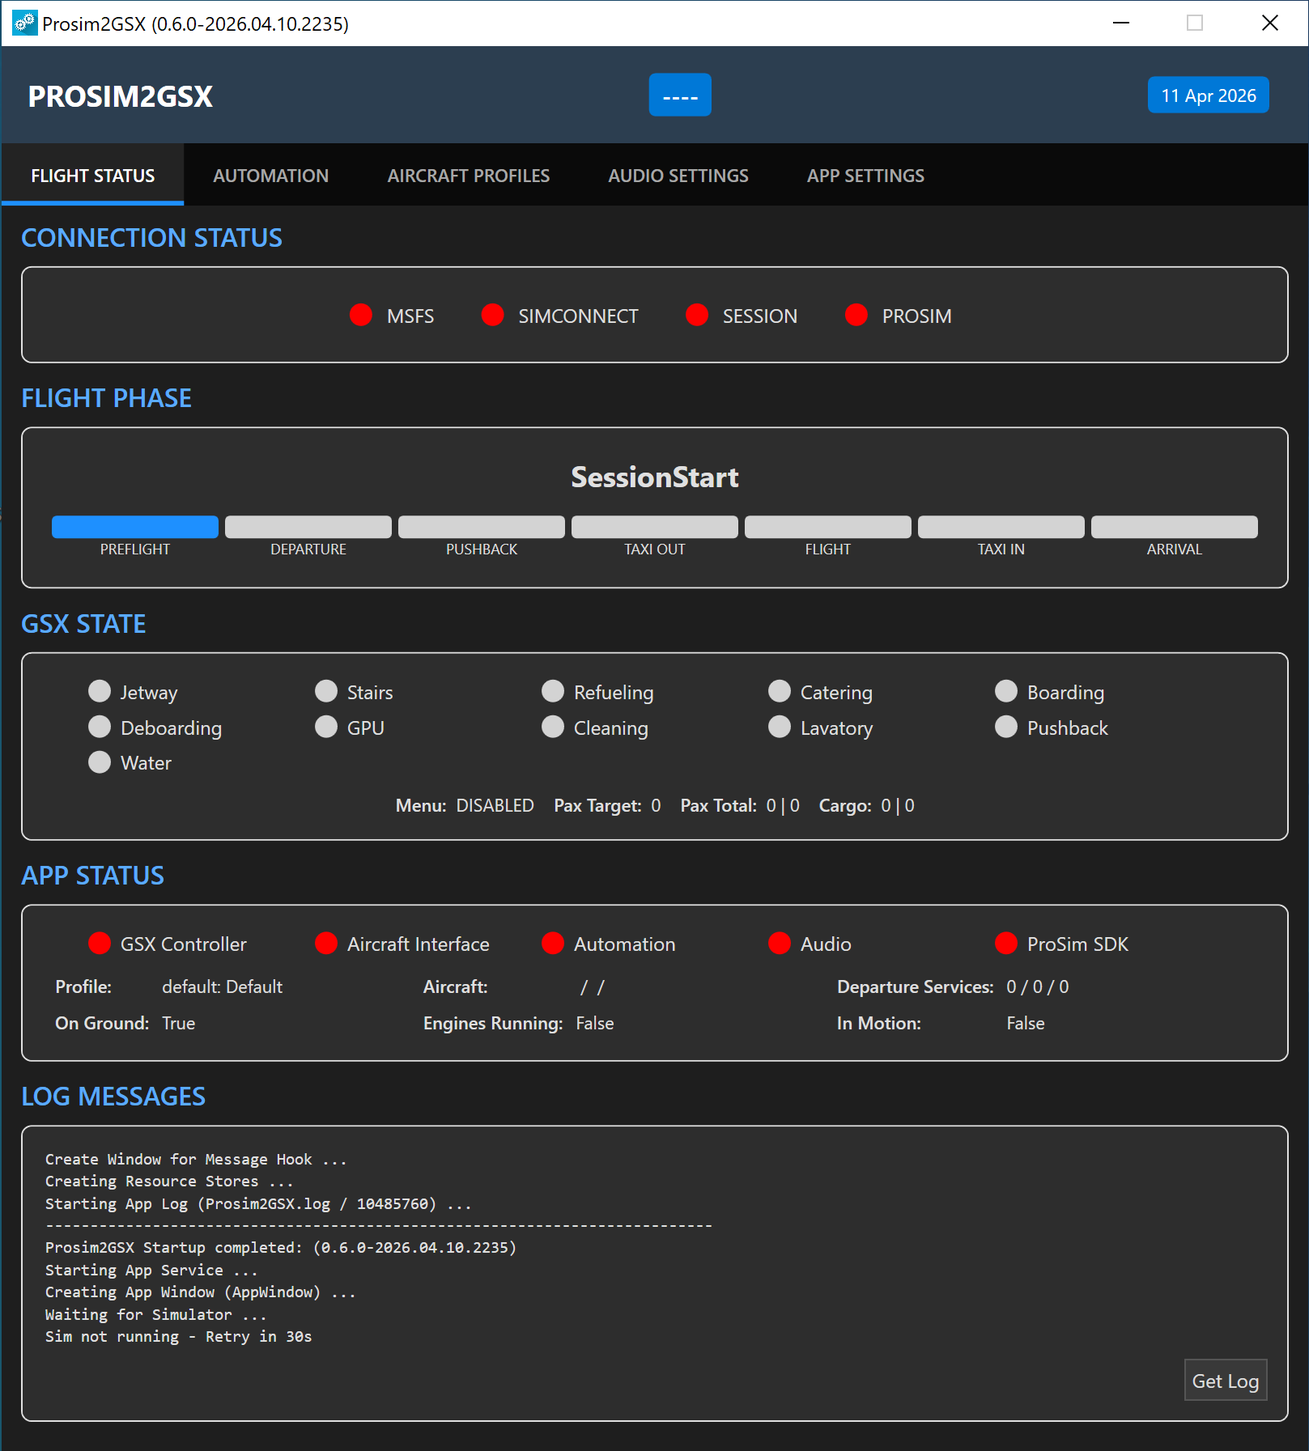
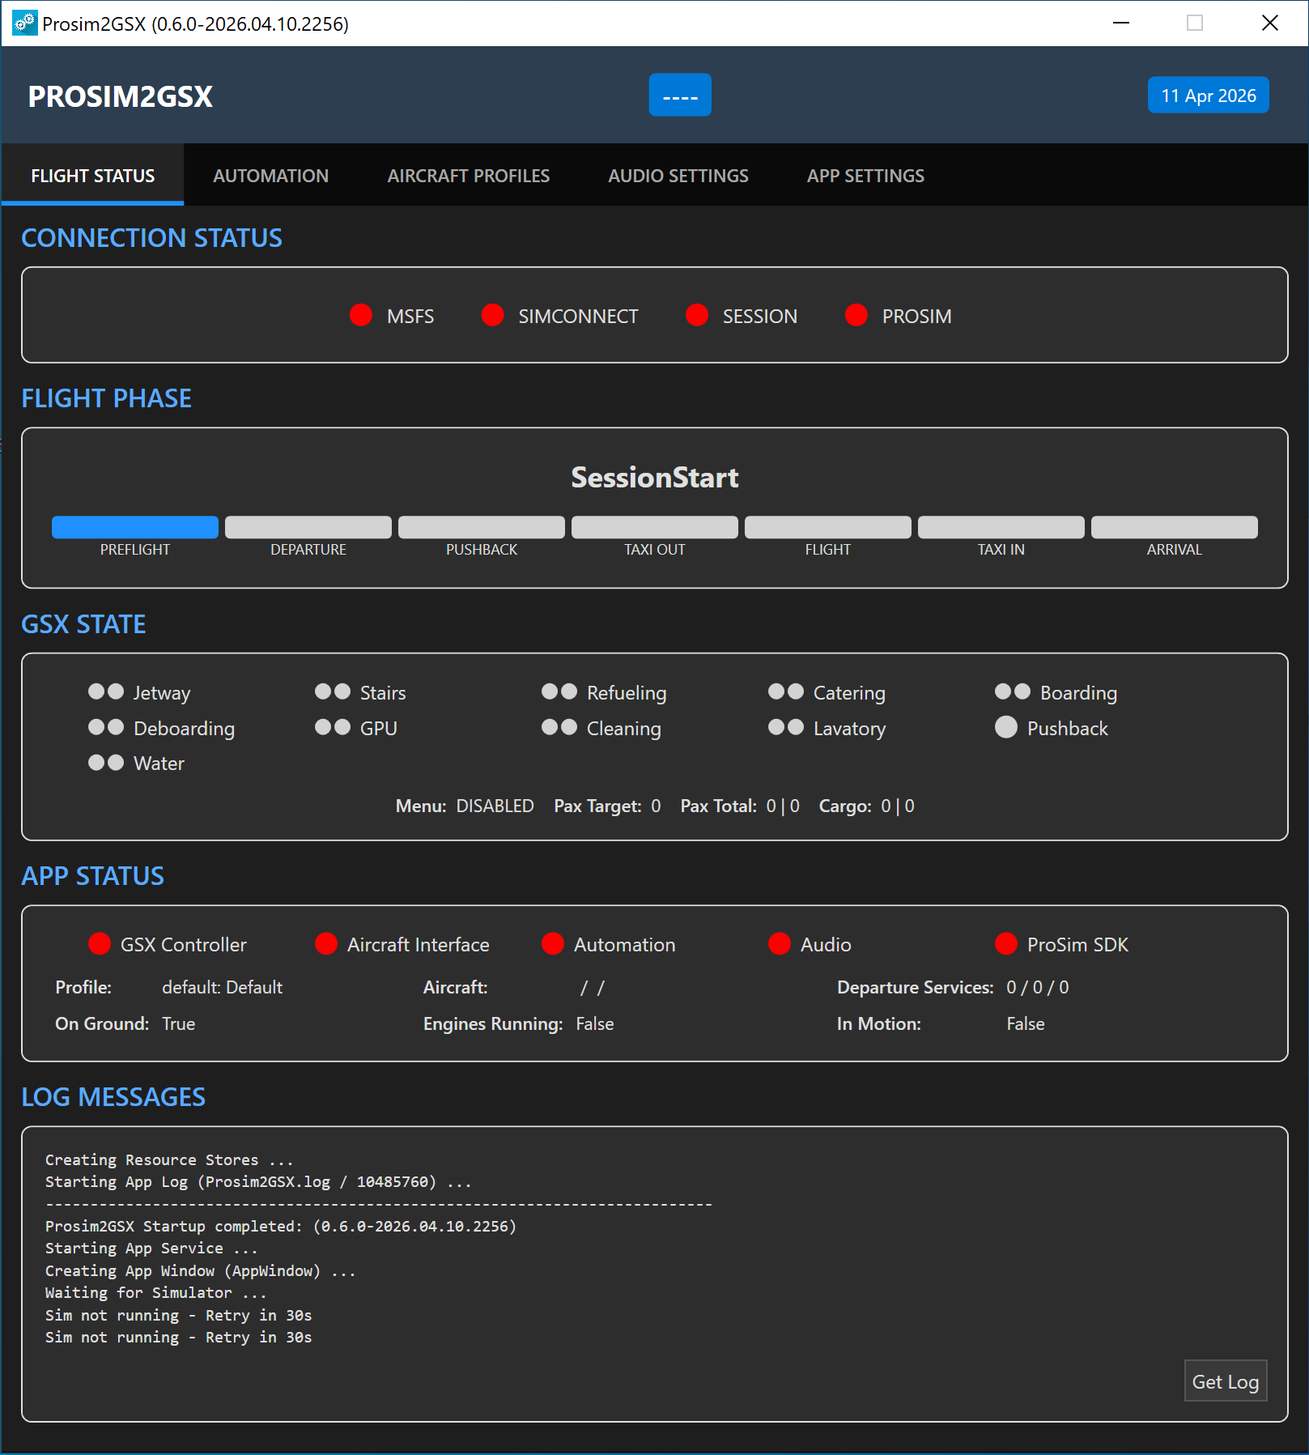
feat: Add Solari board alternating indicator effect for active GSX services
Replaces single status dots with dual-dot indicators on all GSX service
states (Jetway, Stairs, Refueling, Catering, Boarding, Deboarding, GPU,
Cleaning, Lavatory, Water) to emulate the classic split-flap departure
board (Solari board) aesthetic.

When a service is in Active state (state 5 - service being performed),
the two dots alternate between bright amber and dim amber at ~600ms
intervals, mimicking the oscillating indicator lights on mechanical
departure boards. For all other states (Unknown, Requested, Completed)
both dots display the same solid colour as before.

Pushback retains its existing single-dot custom XAML since its active
state is already represented by the flight phase progress bar.

Changes:
- New SolariServiceBrushConverter (IMultiValueConverter) handles the
  left/right dot logic based on service state and a shared toggle clock
- ModelMonitor gains a SolariTimer (600ms DispatcherTimer) driving a
  SolariToggle property that all service indicators bind to in sync
- ViewMonitor.xaml service indicators changed from single 14px ellipse
  to paired 10px ellipses with MultiBinding
- SolariServiceBrushConverter registered in StyleResources.xaml

diff --git a/Prosim2GSX/UI/Views/Monitor/ViewMonitor.xaml b/Prosim2GSX/UI/Views/Monitor/ViewMonitor.xaml
@@ -172,7 +172,7 @@
             <TextBlock Style="{StaticResource CategoryHeader}" Text="GSX STATE"/>
             <Border Style="{StaticResource SectionCardBorder}">
                 <StackPanel>
-                    <!-- Service indicators - 5 across, fixed item width so dots align -->
+                    <!-- Service indicators - Solari board style with dual alternating dots when Active -->
                     <ItemsControl>
                         <ItemsControl.ItemsPanel>
                             <ItemsPanelTemplate>
@@ -181,50 +181,185 @@
                         </ItemsControl.ItemsPanel>
                         <!-- Jetway -->
                         <StackPanel Orientation="Horizontal" Width="140" Margin="0,3">
-                            <Ellipse Width="14" Height="14" Fill="{Binding ServiceJetway, Converter={StaticResource GsxServiceStateToBrushConverter}}" VerticalAlignment="Center"/>
+                            <Ellipse Width="10" Height="10" VerticalAlignment="Center">
+                                <Ellipse.Fill>
+                                    <MultiBinding Converter="{StaticResource SolariServiceBrushConverter}" ConverterParameter="left">
+                                        <Binding Path="ServiceJetway"/>
+                                        <Binding Path="SolariToggle"/>
+                                    </MultiBinding>
+                                </Ellipse.Fill>
+                            </Ellipse>
+                            <Ellipse Width="10" Height="10" Margin="2,0,0,0" VerticalAlignment="Center">
+                                <Ellipse.Fill>
+                                    <MultiBinding Converter="{StaticResource SolariServiceBrushConverter}" ConverterParameter="right">
+                                        <Binding Path="ServiceJetway"/>
+                                        <Binding Path="SolariToggle"/>
+                                    </MultiBinding>
+                                </Ellipse.Fill>
+                            </Ellipse>
                             <TextBlock Margin="6,0,0,0" VerticalAlignment="Center">Jetway</TextBlock>
                         </StackPanel>
                         <!-- Stairs -->
                         <StackPanel Orientation="Horizontal" Width="140" Margin="0,3">
-                            <Ellipse Width="14" Height="14" Fill="{Binding ServiceStairs, Converter={StaticResource GsxServiceStateToBrushConverter}}" VerticalAlignment="Center"/>
+                            <Ellipse Width="10" Height="10" VerticalAlignment="Center">
+                                <Ellipse.Fill>
+                                    <MultiBinding Converter="{StaticResource SolariServiceBrushConverter}" ConverterParameter="left">
+                                        <Binding Path="ServiceStairs"/>
+                                        <Binding Path="SolariToggle"/>
+                                    </MultiBinding>
+                                </Ellipse.Fill>
+                            </Ellipse>
+                            <Ellipse Width="10" Height="10" Margin="2,0,0,0" VerticalAlignment="Center">
+                                <Ellipse.Fill>
+                                    <MultiBinding Converter="{StaticResource SolariServiceBrushConverter}" ConverterParameter="right">
+                                        <Binding Path="ServiceStairs"/>
+                                        <Binding Path="SolariToggle"/>
+                                    </MultiBinding>
+                                </Ellipse.Fill>
+                            </Ellipse>
                             <TextBlock Margin="6,0,0,0" VerticalAlignment="Center">Stairs</TextBlock>
                         </StackPanel>
                         <!-- Refueling -->
                         <StackPanel Orientation="Horizontal" Width="140" Margin="0,3">
-                            <Ellipse Width="14" Height="14" Fill="{Binding ServiceRefuel, Converter={StaticResource GsxServiceStateToBrushConverter}}" VerticalAlignment="Center"/>
+                            <Ellipse Width="10" Height="10" VerticalAlignment="Center">
+                                <Ellipse.Fill>
+                                    <MultiBinding Converter="{StaticResource SolariServiceBrushConverter}" ConverterParameter="left">
+                                        <Binding Path="ServiceRefuel"/>
+                                        <Binding Path="SolariToggle"/>
+                                    </MultiBinding>
+                                </Ellipse.Fill>
+                            </Ellipse>
+                            <Ellipse Width="10" Height="10" Margin="2,0,0,0" VerticalAlignment="Center">
+                                <Ellipse.Fill>
+                                    <MultiBinding Converter="{StaticResource SolariServiceBrushConverter}" ConverterParameter="right">
+                                        <Binding Path="ServiceRefuel"/>
+                                        <Binding Path="SolariToggle"/>
+                                    </MultiBinding>
+                                </Ellipse.Fill>
+                            </Ellipse>
                             <TextBlock Margin="6,0,0,0" VerticalAlignment="Center">Refueling</TextBlock>
                         </StackPanel>
                         <!-- Catering -->
                         <StackPanel Orientation="Horizontal" Width="140" Margin="0,3">
-                            <Ellipse Width="14" Height="14" Fill="{Binding ServiceCatering, Converter={StaticResource GsxServiceStateToBrushConverter}}" VerticalAlignment="Center"/>
+                            <Ellipse Width="10" Height="10" VerticalAlignment="Center">
+                                <Ellipse.Fill>
+                                    <MultiBinding Converter="{StaticResource SolariServiceBrushConverter}" ConverterParameter="left">
+                                        <Binding Path="ServiceCatering"/>
+                                        <Binding Path="SolariToggle"/>
+                                    </MultiBinding>
+                                </Ellipse.Fill>
+                            </Ellipse>
+                            <Ellipse Width="10" Height="10" Margin="2,0,0,0" VerticalAlignment="Center">
+                                <Ellipse.Fill>
+                                    <MultiBinding Converter="{StaticResource SolariServiceBrushConverter}" ConverterParameter="right">
+                                        <Binding Path="ServiceCatering"/>
+                                        <Binding Path="SolariToggle"/>
+                                    </MultiBinding>
+                                </Ellipse.Fill>
+                            </Ellipse>
                             <TextBlock Margin="6,0,0,0" VerticalAlignment="Center">Catering</TextBlock>
                         </StackPanel>
                         <!-- Boarding -->
                         <StackPanel Orientation="Horizontal" Width="140" Margin="0,3">
-                            <Ellipse Width="14" Height="14" Fill="{Binding ServiceBoarding, Converter={StaticResource GsxServiceStateToBrushConverter}}" VerticalAlignment="Center"/>
+                            <Ellipse Width="10" Height="10" VerticalAlignment="Center">
+                                <Ellipse.Fill>
+                                    <MultiBinding Converter="{StaticResource SolariServiceBrushConverter}" ConverterParameter="left">
+                                        <Binding Path="ServiceBoarding"/>
+                                        <Binding Path="SolariToggle"/>
+                                    </MultiBinding>
+                                </Ellipse.Fill>
+                            </Ellipse>
+                            <Ellipse Width="10" Height="10" Margin="2,0,0,0" VerticalAlignment="Center">
+                                <Ellipse.Fill>
+                                    <MultiBinding Converter="{StaticResource SolariServiceBrushConverter}" ConverterParameter="right">
+                                        <Binding Path="ServiceBoarding"/>
+                                        <Binding Path="SolariToggle"/>
+                                    </MultiBinding>
+                                </Ellipse.Fill>
+                            </Ellipse>
                             <TextBlock Margin="6,0,0,0" VerticalAlignment="Center">Boarding</TextBlock>
                         </StackPanel>
                         <!-- Deboarding -->
                         <StackPanel Orientation="Horizontal" Width="140" Margin="0,3">
-                            <Ellipse Width="14" Height="14" Fill="{Binding ServiceDeboarding, Converter={StaticResource GsxServiceStateToBrushConverter}}" VerticalAlignment="Center"/>
+                            <Ellipse Width="10" Height="10" VerticalAlignment="Center">
+                                <Ellipse.Fill>
+                                    <MultiBinding Converter="{StaticResource SolariServiceBrushConverter}" ConverterParameter="left">
+                                        <Binding Path="ServiceDeboarding"/>
+                                        <Binding Path="SolariToggle"/>
+                                    </MultiBinding>
+                                </Ellipse.Fill>
+                            </Ellipse>
+                            <Ellipse Width="10" Height="10" Margin="2,0,0,0" VerticalAlignment="Center">
+                                <Ellipse.Fill>
+                                    <MultiBinding Converter="{StaticResource SolariServiceBrushConverter}" ConverterParameter="right">
+                                        <Binding Path="ServiceDeboarding"/>
+                                        <Binding Path="SolariToggle"/>
+                                    </MultiBinding>
+                                </Ellipse.Fill>
+                            </Ellipse>
                             <TextBlock Margin="6,0,0,0" VerticalAlignment="Center">Deboarding</TextBlock>
                         </StackPanel>
                         <!-- GPU -->
                         <StackPanel Orientation="Horizontal" Width="140" Margin="0,3">
-                            <Ellipse Width="14" Height="14" Fill="{Binding ServiceGpu, Converter={StaticResource GsxServiceStateToBrushConverter}}" VerticalAlignment="Center"/>
+                            <Ellipse Width="10" Height="10" VerticalAlignment="Center">
+                                <Ellipse.Fill>
+                                    <MultiBinding Converter="{StaticResource SolariServiceBrushConverter}" ConverterParameter="left">
+                                        <Binding Path="ServiceGpu"/>
+                                        <Binding Path="SolariToggle"/>
+                                    </MultiBinding>
+                                </Ellipse.Fill>
+                            </Ellipse>
+                            <Ellipse Width="10" Height="10" Margin="2,0,0,0" VerticalAlignment="Center">
+                                <Ellipse.Fill>
+                                    <MultiBinding Converter="{StaticResource SolariServiceBrushConverter}" ConverterParameter="right">
+                                        <Binding Path="ServiceGpu"/>
+                                        <Binding Path="SolariToggle"/>
+                                    </MultiBinding>
+                                </Ellipse.Fill>
+                            </Ellipse>
                             <TextBlock Margin="6,0,0,0" VerticalAlignment="Center">GPU</TextBlock>
                         </StackPanel>
                         <!-- Cleaning -->
                         <StackPanel Orientation="Horizontal" Width="140" Margin="0,3">
-                            <Ellipse Width="14" Height="14" Fill="{Binding ServiceCleaning, Converter={StaticResource GsxServiceStateToBrushConverter}}" VerticalAlignment="Center"/>
+                            <Ellipse Width="10" Height="10" VerticalAlignment="Center">
+                                <Ellipse.Fill>
+                                    <MultiBinding Converter="{StaticResource SolariServiceBrushConverter}" ConverterParameter="left">
+                                        <Binding Path="ServiceCleaning"/>
+                                        <Binding Path="SolariToggle"/>
+                                    </MultiBinding>
+                                </Ellipse.Fill>
+                            </Ellipse>
+                            <Ellipse Width="10" Height="10" Margin="2,0,0,0" VerticalAlignment="Center">
+                                <Ellipse.Fill>
+                                    <MultiBinding Converter="{StaticResource SolariServiceBrushConverter}" ConverterParameter="right">
+                                        <Binding Path="ServiceCleaning"/>
+                                        <Binding Path="SolariToggle"/>
+                                    </MultiBinding>
+                                </Ellipse.Fill>
+                            </Ellipse>
                             <TextBlock Margin="6,0,0,0" VerticalAlignment="Center">Cleaning</TextBlock>
                         </StackPanel>
                         <!-- Lavatory -->
                         <StackPanel Orientation="Horizontal" Width="140" Margin="0,3">
-                            <Ellipse Width="14" Height="14" Fill="{Binding ServiceLavatory, Converter={StaticResource GsxServiceStateToBrushConverter}}" VerticalAlignment="Center"/>
+                            <Ellipse Width="10" Height="10" VerticalAlignment="Center">
+                                <Ellipse.Fill>
+                                    <MultiBinding Converter="{StaticResource SolariServiceBrushConverter}" ConverterParameter="left">
+                                        <Binding Path="ServiceLavatory"/>
+                                        <Binding Path="SolariToggle"/>
+                                    </MultiBinding>
+                                </Ellipse.Fill>
+                            </Ellipse>
+                            <Ellipse Width="10" Height="10" Margin="2,0,0,0" VerticalAlignment="Center">
+                                <Ellipse.Fill>
+                                    <MultiBinding Converter="{StaticResource SolariServiceBrushConverter}" ConverterParameter="right">
+                                        <Binding Path="ServiceLavatory"/>
+                                        <Binding Path="SolariToggle"/>
+                                    </MultiBinding>
+                                </Ellipse.Fill>
+                            </Ellipse>
                             <TextBlock Margin="6,0,0,0" VerticalAlignment="Center">Lavatory</TextBlock>
                         </StackPanel>
-                        <!-- Pushback -->
+                        <!-- Pushback (no Solari effect - covered by flight phase indicator) -->
                         <StackPanel Orientation="Horizontal" Width="140" Margin="0,3">
                             <Ellipse Width="14" Height="14" VerticalAlignment="Center">
                                 <Ellipse.Style>
@@ -254,7 +389,22 @@
                         </StackPanel>
                         <!-- Water -->
                         <StackPanel Orientation="Horizontal" Width="140" Margin="0,3">
-                            <Ellipse Width="14" Height="14" Fill="{Binding ServiceWater, Converter={StaticResource GsxServiceStateToBrushConverter}}" VerticalAlignment="Center"/>
+                            <Ellipse Width="10" Height="10" VerticalAlignment="Center">
+                                <Ellipse.Fill>
+                                    <MultiBinding Converter="{StaticResource SolariServiceBrushConverter}" ConverterParameter="left">
+                                        <Binding Path="ServiceWater"/>
+                                        <Binding Path="SolariToggle"/>
+                                    </MultiBinding>
+                                </Ellipse.Fill>
+                            </Ellipse>
+                            <Ellipse Width="10" Height="10" Margin="2,0,0,0" VerticalAlignment="Center">
+                                <Ellipse.Fill>
+                                    <MultiBinding Converter="{StaticResource SolariServiceBrushConverter}" ConverterParameter="right">
+                                        <Binding Path="ServiceWater"/>
+                                        <Binding Path="SolariToggle"/>
+                                    </MultiBinding>
+                                </Ellipse.Fill>
+                            </Ellipse>
                             <TextBlock Margin="6,0,0,0" VerticalAlignment="Center">Water</TextBlock>
                         </StackPanel>
                     </ItemsControl>

diff --git a/Prosim2GSX/UI/StyleResources.xaml b/Prosim2GSX/UI/StyleResources.xaml
@@ -8,6 +8,7 @@
 
     <conv:BoolVisibilityConverter x:Key="BoolVisibilityConverter"/>
     <localconv:GsxServiceStateToBrushConverter x:Key="GsxServiceStateToBrushConverter"/>
+    <localconv:SolariServiceBrushConverter x:Key="SolariServiceBrushConverter"/>
     <localconv:InverseBooleanConverter x:Key="InverseBooleanConverter"/>
 
     <Style TargetType="{x:Type ContentPresenter}">

diff --git a/Prosim2GSX/UI/Converters/SolariServiceBrushConverter.cs b/Prosim2GSX/UI/Converters/SolariServiceBrushConverter.cs
@@ -1,0 +1,49 @@
+using Prosim2GSX.GSX.Services;
+using System;
+using System.Globalization;
+using System.Windows.Data;
+using System.Windows.Media;
+
+namespace Prosim2GSX.UI.Converters
+{
+    /// <summary>
+    /// Multi-value converter for the Solari board effect on GSX service indicators.
+    /// Bindings: [0] = GsxServiceState, [1] = SolariToggle (bool).
+    /// ConverterParameter: "left" or "right" to select which dot.
+    /// When Active, the two dots alternate between bright amber and dim amber.
+    /// </summary>
+    public class SolariServiceBrushConverter : IMultiValueConverter
+    {
+        private static readonly SolidColorBrush BrushGray = new(Color.FromArgb(0xFF, 0xD3, 0xD3, 0xD3));
+        private static readonly SolidColorBrush BrushBlue = new(Color.FromArgb(0xFF, 0x1E, 0x90, 0xFF));
+        private static readonly SolidColorBrush BrushGreen = new(Color.FromArgb(0xFF, 0x00, 0xA0, 0x00));
+        private static readonly SolidColorBrush BrushAmberBright = new(Color.FromArgb(0xFF, 0xFF, 0xD7, 0x00));
+        private static readonly SolidColorBrush BrushAmberDim = new(Color.FromArgb(0xFF, 0x8B, 0x69, 0x14));
+
+        public object Convert(object[] values, Type targetType, object parameter, CultureInfo culture)
+        {
+            if (values.Length < 2 || values[0] is not GsxServiceState state)
+                return BrushGray;
+
+            bool toggle = values[1] is bool t && t;
+            bool isLeft = string.Equals(parameter as string, "left", StringComparison.OrdinalIgnoreCase);
+
+            if (state == GsxServiceState.Active)
+            {
+                // Solari alternating: left is bright when toggle=true, right is bright when toggle=false
+                bool bright = isLeft ? toggle : !toggle;
+                return bright ? BrushAmberBright : BrushAmberDim;
+            }
+
+            return state switch
+            {
+                GsxServiceState.Requested => BrushBlue,
+                GsxServiceState.Completed => BrushGreen,
+                _ => BrushGray
+            };
+        }
+
+        public object[] ConvertBack(object value, Type[] targetTypes, object parameter, CultureInfo culture)
+            => throw new NotImplementedException();
+    }
+}

diff --git a/Prosim2GSX/UI/Views/Monitor/ModelMonitor.cs b/Prosim2GSX/UI/Views/Monitor/ModelMonitor.cs
@@ -41,6 +41,12 @@ namespace Prosim2GSX.UI.Views.Monitor
         protected virtual GsxServiceDeboarding GsxServiceDeboard => GsxServices[GsxServiceType.Deboarding] as GsxServiceDeboarding;
         protected virtual GsxServicePushback GsxServicePushBack => GsxServices[GsxServiceType.Pushback] as GsxServicePushback;
 
+        // Solari board blink timer (~600ms per side, full cycle ~1.2s)
+        protected virtual DispatcherTimer SolariTimer { get; set; }
+
+        [ObservableProperty]
+        protected bool _SolariToggle = false;
+
         protected override void InitializeModel()
         {
             UpdateTimer = new DispatcherTimer()
@@ -48,17 +54,25 @@ namespace Prosim2GSX.UI.Views.Monitor
                 Interval = TimeSpan.FromMilliseconds(AppService.Instance.Config.UiRefreshInterval),
             };
             UpdateTimer.Tick += OnUpdate;
+
+            SolariTimer = new DispatcherTimer()
+            {
+                Interval = TimeSpan.FromMilliseconds(600),
+            };
+            SolariTimer.Tick += (s, e) => SolariToggle = !SolariToggle;
         }
 
         public virtual void Start()
         {
             ForceRefresh = true;
             UpdateTimer.Start();
+            SolariTimer.Start();
         }
 
         public virtual void Stop()
         {
             UpdateTimer?.Stop();
+            SolariTimer?.Stop();
         }
 
         [RelayCommand]
